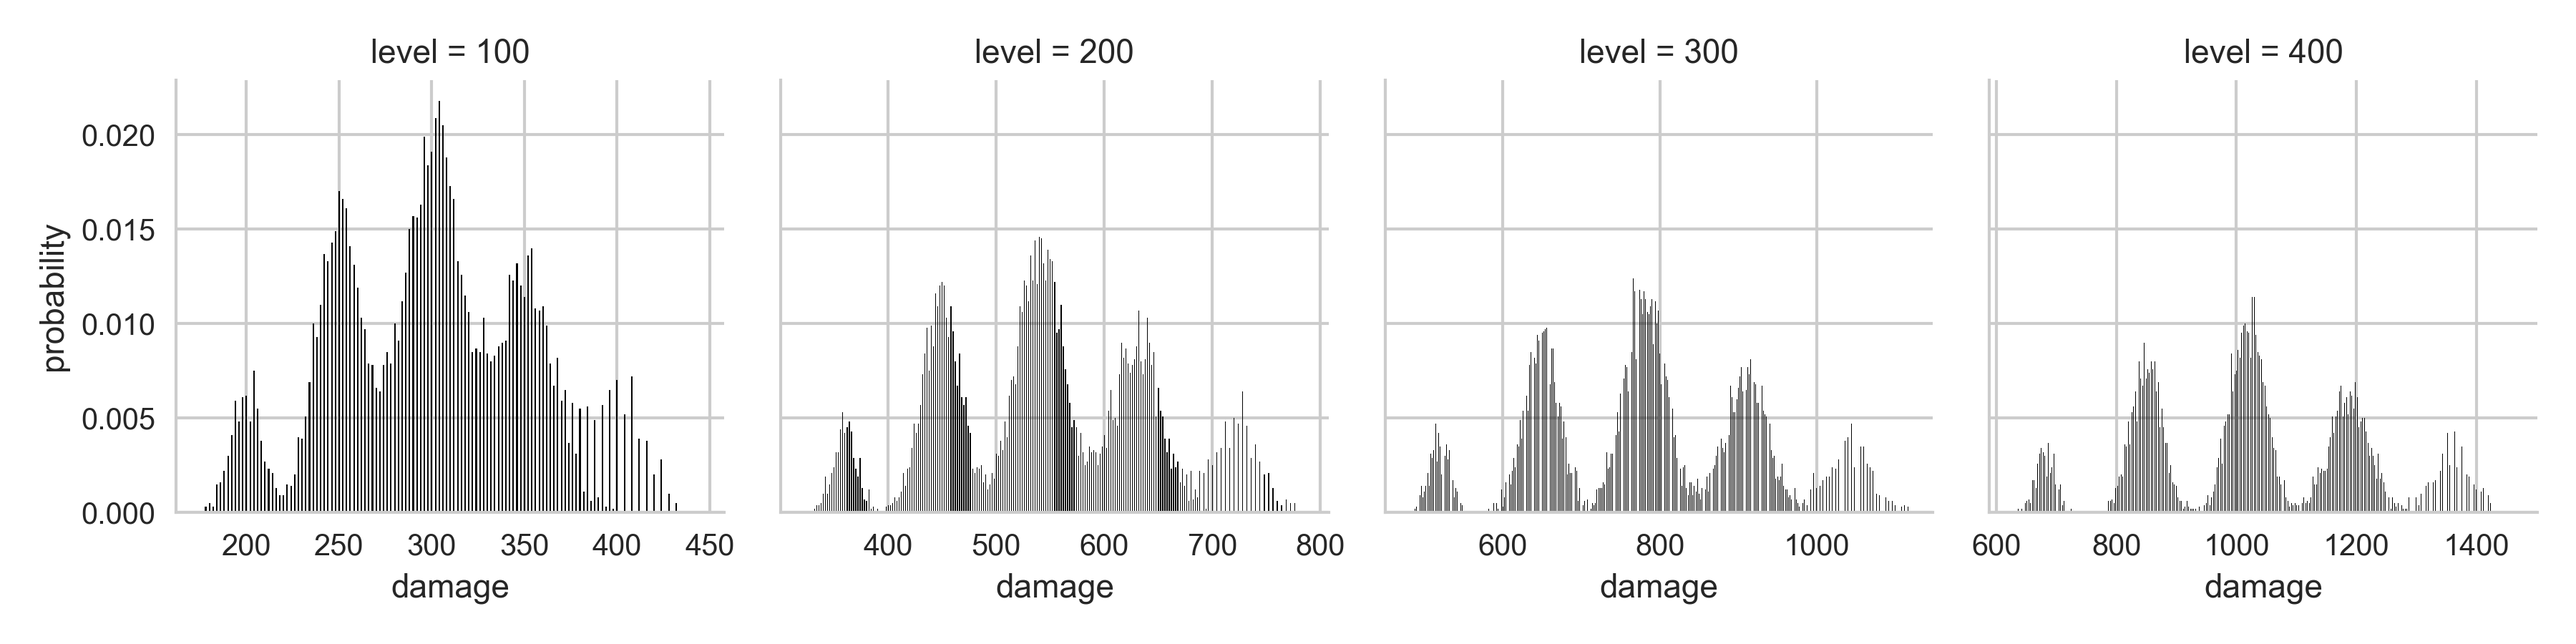
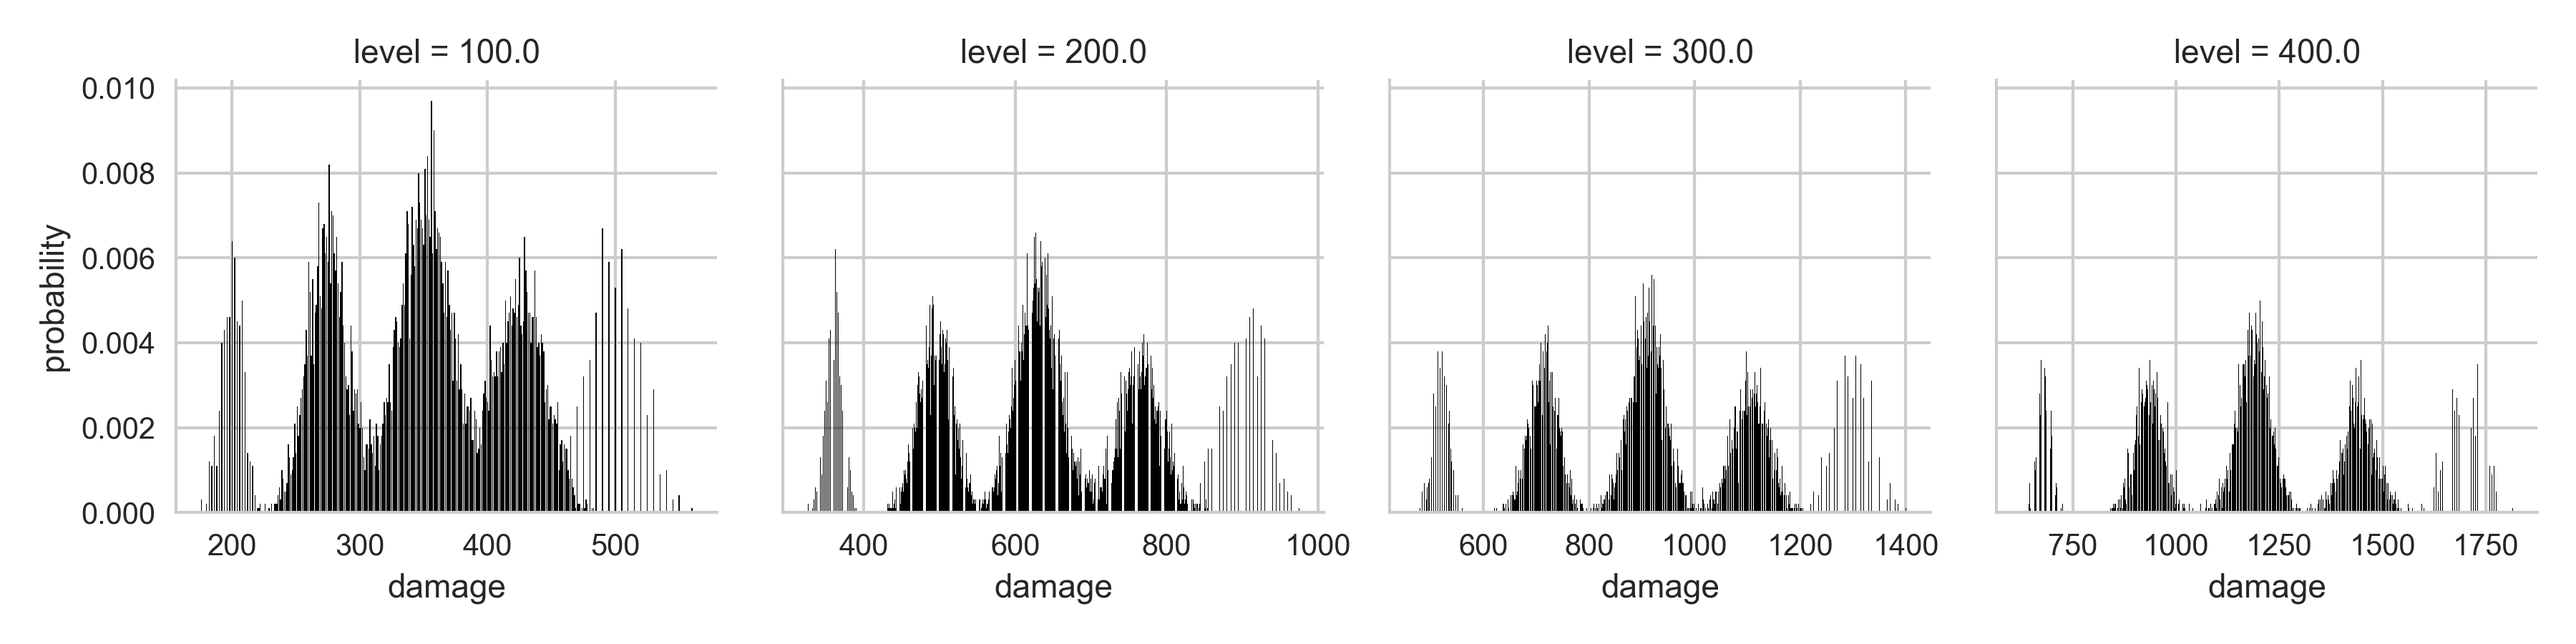
new tools and change visualisation

diff --git a/sim/main.go b/sim/main.go
@@ -5,9 +5,9 @@ import "os"
 import "encoding/json"
 
 type row struct {
-	Level  int `json:"level"`
-	Damage int `json:"damage"`
-	Count  int `json:"count"`
+	Level       int     `json:"l"`
+	Damage      int     `json:"d"`
+	Probability float64 `json:"p"`
 }
 
 func main() {
@@ -24,12 +24,13 @@ func main() {
 	)
 	buffered_stdout := bufio.NewWriter(os.Stdout)
 	encoder := json.NewEncoder(buffered_stdout)
+	N := float64(params.samples)
 	for level, counter := range data {
 		for damage, count := range counter {
 			err := encoder.Encode(row{
-				Level:  level,
-				Damage: damage,
-				Count:  count,
+				Level:       level,
+				Damage:      damage,
+				Probability: float64(count) / N,
 			})
 			if err != nil {
 				panic(err)
